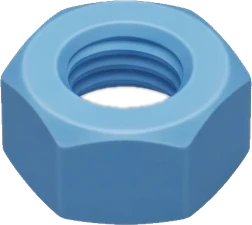
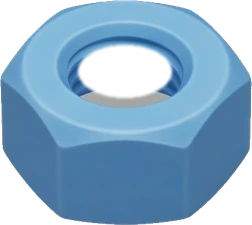
[Claude·MAC] Гайки: жерло пробито целиком — болт виден ВНУТРИ гайки, а не только над ней
Денис 09.09.2026 с фотографией настоящих гаек: «на фото они одеты на болт, видишь
разницу» и «твои висят перед гайкой».

ЗАМЕР, НАЗВАВШИЙ ПРИЧИНУ. Отверстие в спрайте было пробито щелью 0,270…0,325
ширины, а видимое жерло у нарисованной гайки — 0,405…0,456. Стержень болта при
этом рисовался шириной 0,43 (`ОТВЕРСТИЕ_ГАЙКИ`) и уходил ЗА края щели: сквозь
неё было видно полоску в несколько пикселей. Отсюда и картинка «гайка налеплена
на болт спереди»: болт читался только НАД верхней гайкой, внутри — нет.

Жерло пробито по своей же геометрии: bbox тёмных точек тела в центральной полосе,
эллипс в 0,92 от него. Высота жерла взята МЕДИАННОЙ по всем десяти файлам —
гайки с одного листа, объект один и тот же, а детектор на розовой и жёлтой ловил
меньше из-за подсветки грани. Отверстие стало 0,372…0,420 ширины, стержень 0,43
чуть шире самого широкого — у края дырки нет щели с фоном, лишнее прячется за
телом гайки.

Проверено в браузере при трёхкратном увеличении: в отверстии верхней гайки видна
резьба болта, у нижних — гайка под ней, как в плотной стопке.

Резервные копии исходников (с серым дном) лежали в /tmp и использовались как
источник: пробивать поверх уже пробитого нельзя, детектор жерла тогда видит
меньше, чем есть.

Changed region(s): [[0.3056, 0.1867, 0.6944, 0.4978]]

diff --git a/frontend/app/games/water-sort.tsx b/frontend/app/games/water-sort.tsx
@@ -282,7 +282,20 @@ const СТЕКЛО_ШАРЫ = require('../../assets/images/games/water-sort/tube
  *     кадр = 0,43 / 0,523 ≈ 0,822 ширины гайки.
  */
 const АСПЕКТ_ГАЙКИ = 1.115;        // ширина ÷ высота нарисованной гайки
-const ОТВЕРСТИЕ_ГАЙКИ = 0.43;      // доля ширины гайки
+/**
+ * Доля ширины гайки, занятая отверстием.
+ *
+ * 📍 ЗАМЕР 09.09.2026 по альфа-каналу спрайтов: пробитое жерло 0,372…0,420
+ * ширины (десять файлов). Стержень болта чуть шире самого широкого отверстия —
+ * так у края дырки не остаётся щели с фоном, а лишнее прячется за телом гайки.
+ *
+ * ⚠ ПЕРВАЯ РЕДАКЦИЯ ПРОБИВАЛА ЩЕЛЬ 0,32, А ЗДЕСЬ СТОЯЛО 0,43. Денис 09.09.2026,
+ * с фотографией настоящих гаек: «на фото они одеты на болт, видишь разницу» и
+ * «твои висят перед гайкой». Ровно это и было: стержень рисовался шириной 0,43,
+ * а видно его было через отверстие 0,32 — то есть почти никак, и гайка читалась
+ * как налепленная на болт спереди, а не надетая на него. Жерло пробито целиком.
+ */
+const ОТВЕРСТИЕ_ГАЙКИ = 0.43;
 const СТЕРЖЕНЬ_В_КАДРЕ = 0.523;    // доля ширины кадра болта, занятая стержнем
 /**
  * На сколько верхняя гайка наезжает на нижнюю. У настоящей стопки видно только
